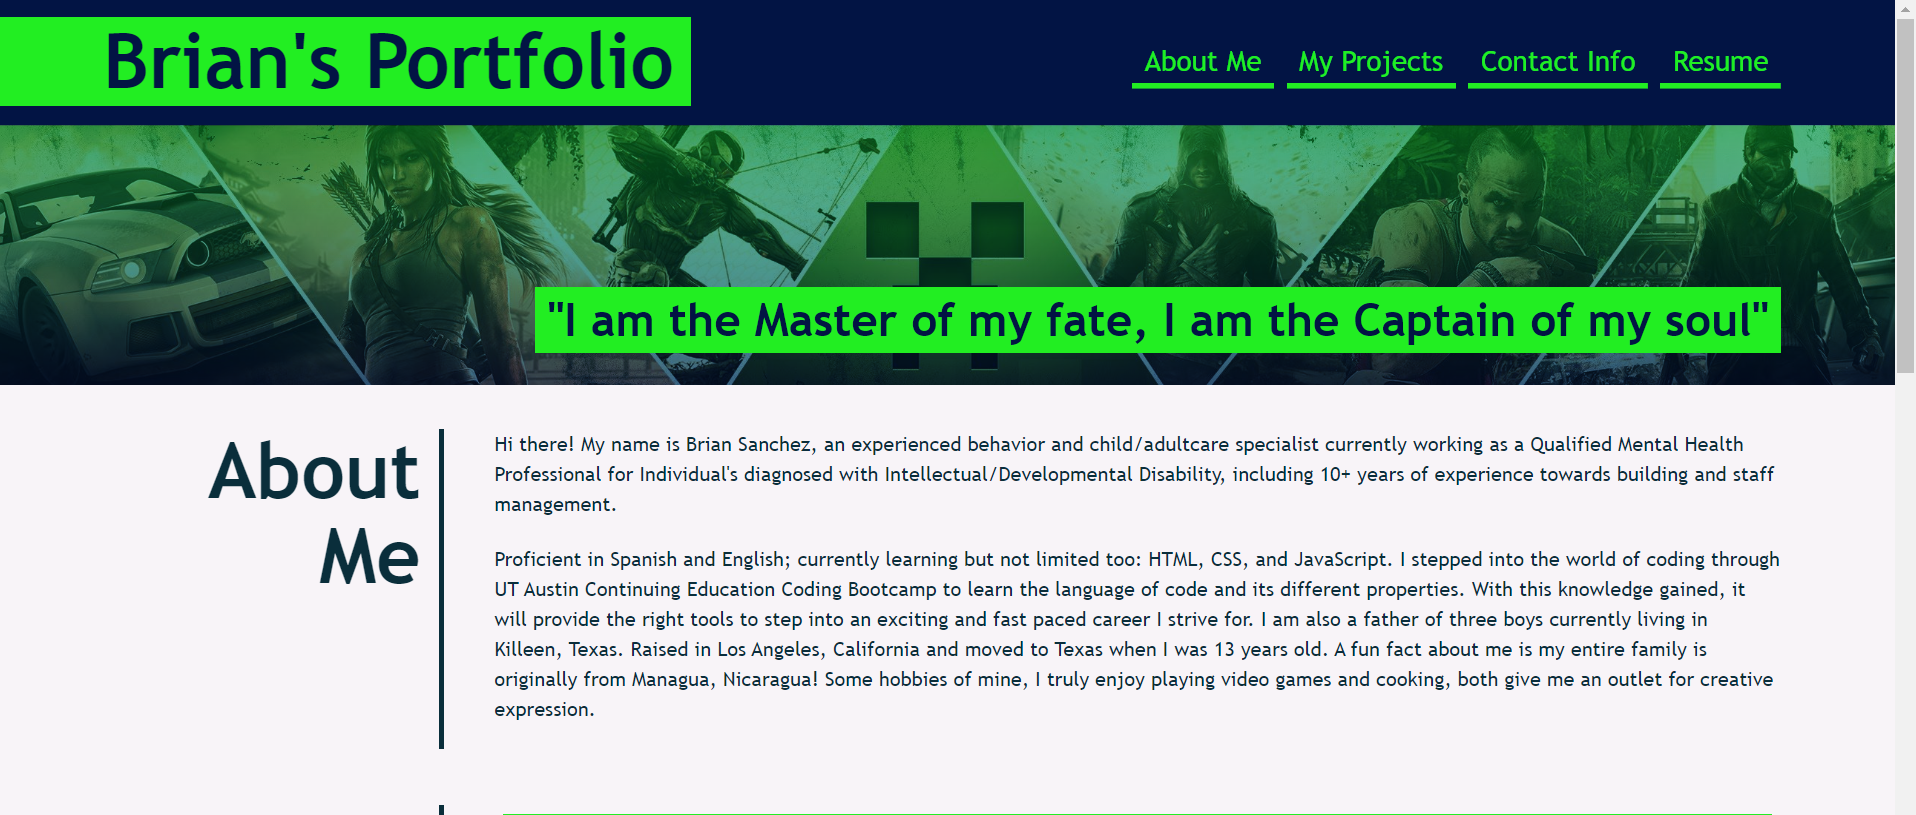
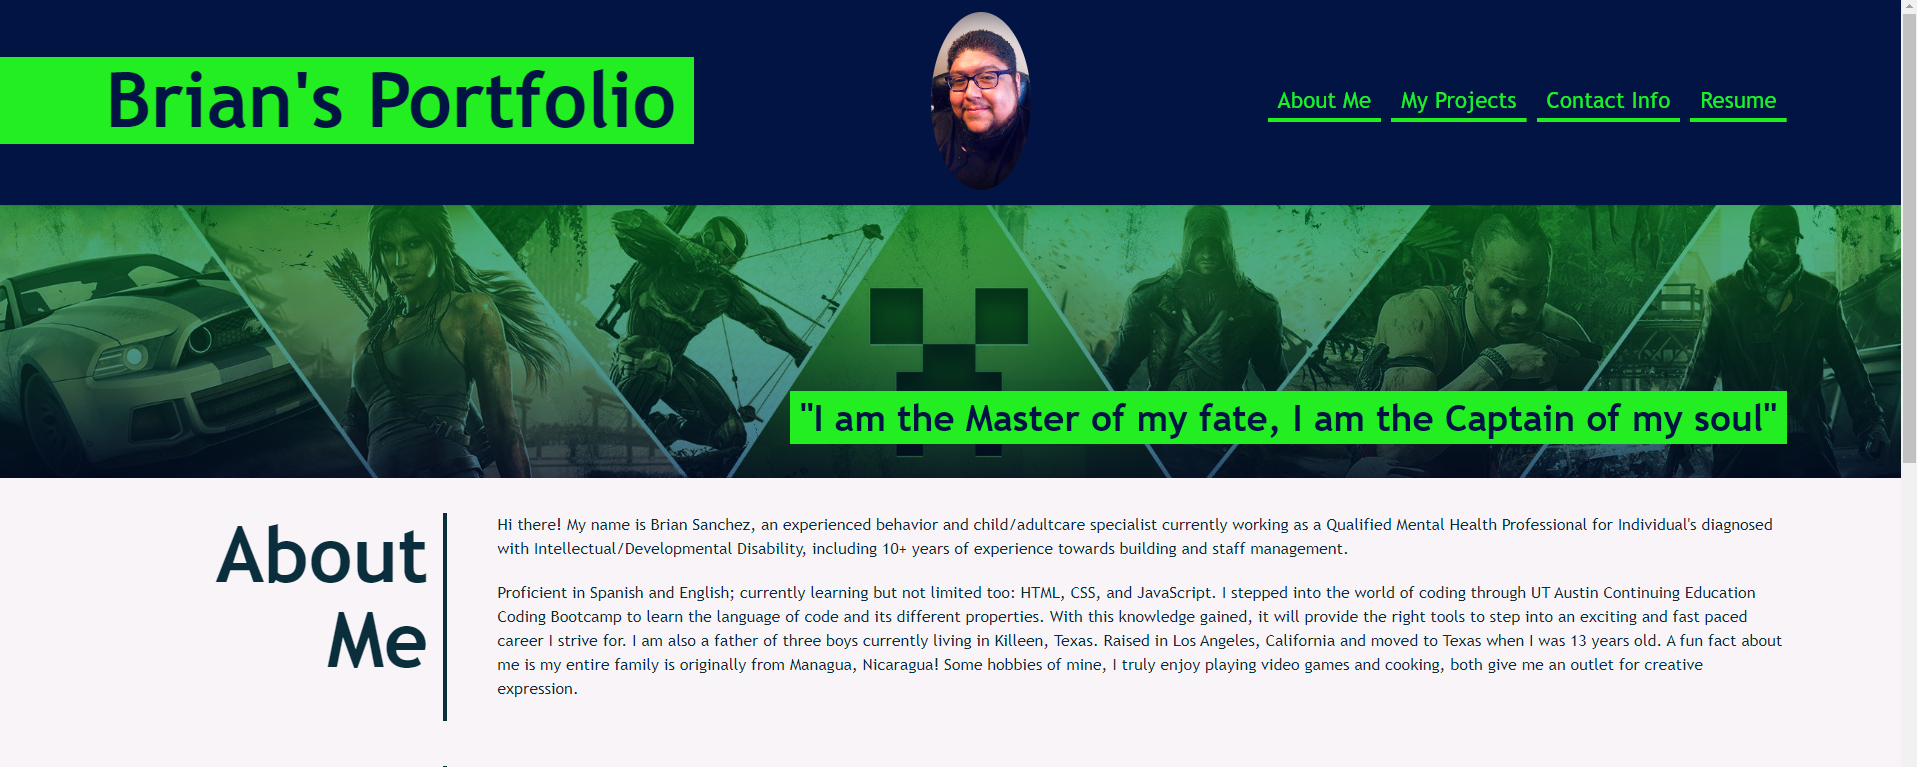
added profile picture to index and updated screenshot to readme

diff --git a/index.html b/index.html
@@ -10,9 +10,10 @@
 </head>
 
 <body>
-  <!-- changed title of h1 and for each a href -->
+  <!-- changed title of h1 and for each a href, Added a portfolio picture -->
   <header>
     <h1>Brian's Portfolio</h1>
+    <img src= "./assets/images/portfoliopic.jpeg" alt="Brian Sanchez">
     <nav>
       <a href="#about">About Me</a>
       <a href="#work">My Projects</a>
@@ -48,7 +49,6 @@
       </div>
     </section>
 
-    <!-- portfolio container -->
     <section class="page-section" id="work">
       <h2>My Projects</h2>
       <div class="flex-container">

diff --git a/assets/css/style.css b/assets/css/style.css
@@ -1,7 +1,11 @@
 * {
     box-sizing: border-box;
   }
-  
+  /* Added styling for img */
+  img {
+    max-width: 100px;
+    border-radius: 50%;
+  }
   /* changed color palette to fit user's desire */
   :root {
     --primary: rgb(10, 46, 59);
@@ -236,7 +240,7 @@
   }
   
   .code-refractor {
-    background-image: url("c:/Users/brian/bootcamp/Brian-Week-Two-Challenge/assets/images/horiseon-screenshot.png");
+    background-image: url("../images/horiseon-screenshot.png");
   }
     
   @media screen and (max-width: 980px) {
